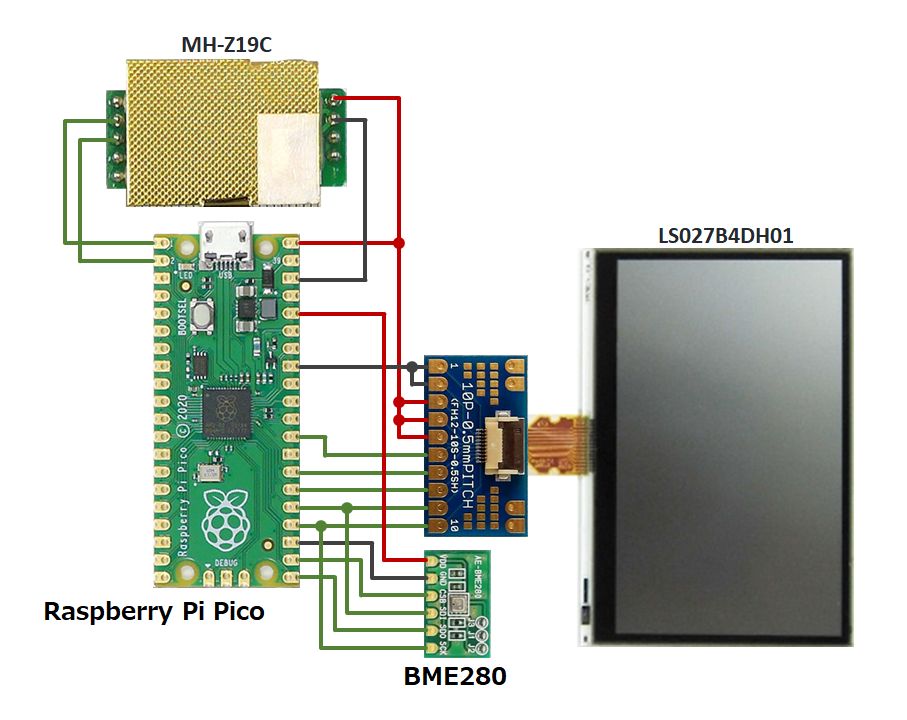
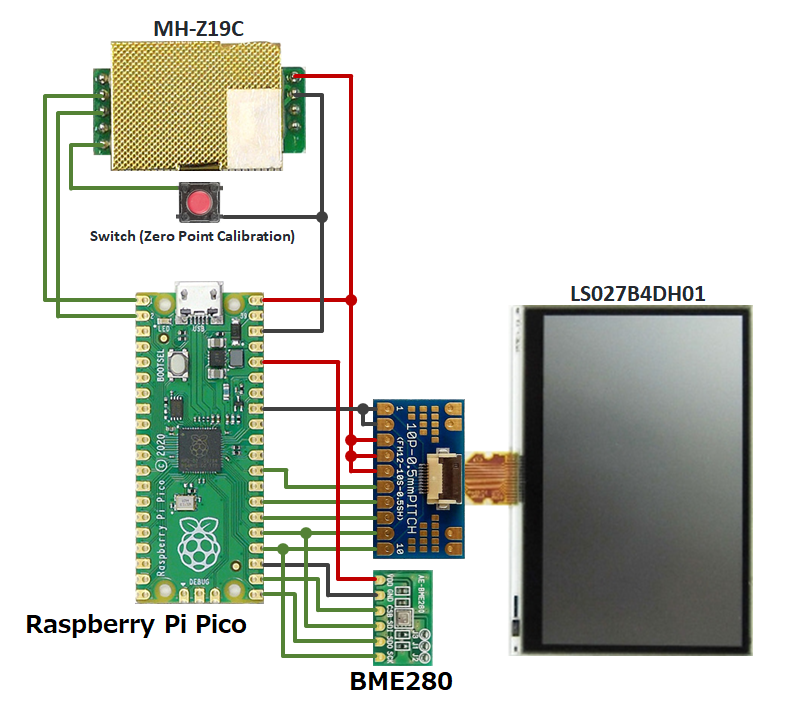
update README

Changed region(s): [[0.03, 0.0306, 0.6608, 0.9778], [0.6308, 0.3056, 0.9612, 0.9167]]

diff --git a/README.md b/README.md
@@ -85,7 +85,7 @@
 
 ----
 
-## 注意点
+## 調整
 
 ### BME280 の温度
 
@@ -105,8 +105,13 @@ static const float TEMPERATURE_OFFSET = -3.0f;
 
 MH-Z19C は初期状態では正しい値を示さないケースがあるようです。
 
-風通しの良い誰もいない場所に放置して値が 400ppm 付近まで下がらない場合はキャリブレーションを実施してください。
-
 参考 : [Home Assistant: ESP32+MH-Z19CでCO2モニター構築(2) [キャリブレーション編] - Sympapaのスマートホーム日記](https://sympapa.hatenablog.com/entry/2022/06/05/091621)
+
+誰もいない風通しの良い場所に放置して値が 400ppm 付近まで下がらない場合はキャリブレーションを実施してください。
+
+1. 本機を誰もいない風通しの良い場所に 20分間放置します。
+2. 吐息がかからないように息を止めて、Zero Point Calibrationスイッチを 7秒間押下します。
+
+なお、本プロジェクトではオートキャリブレーションは無効化されています。
 
 ----
